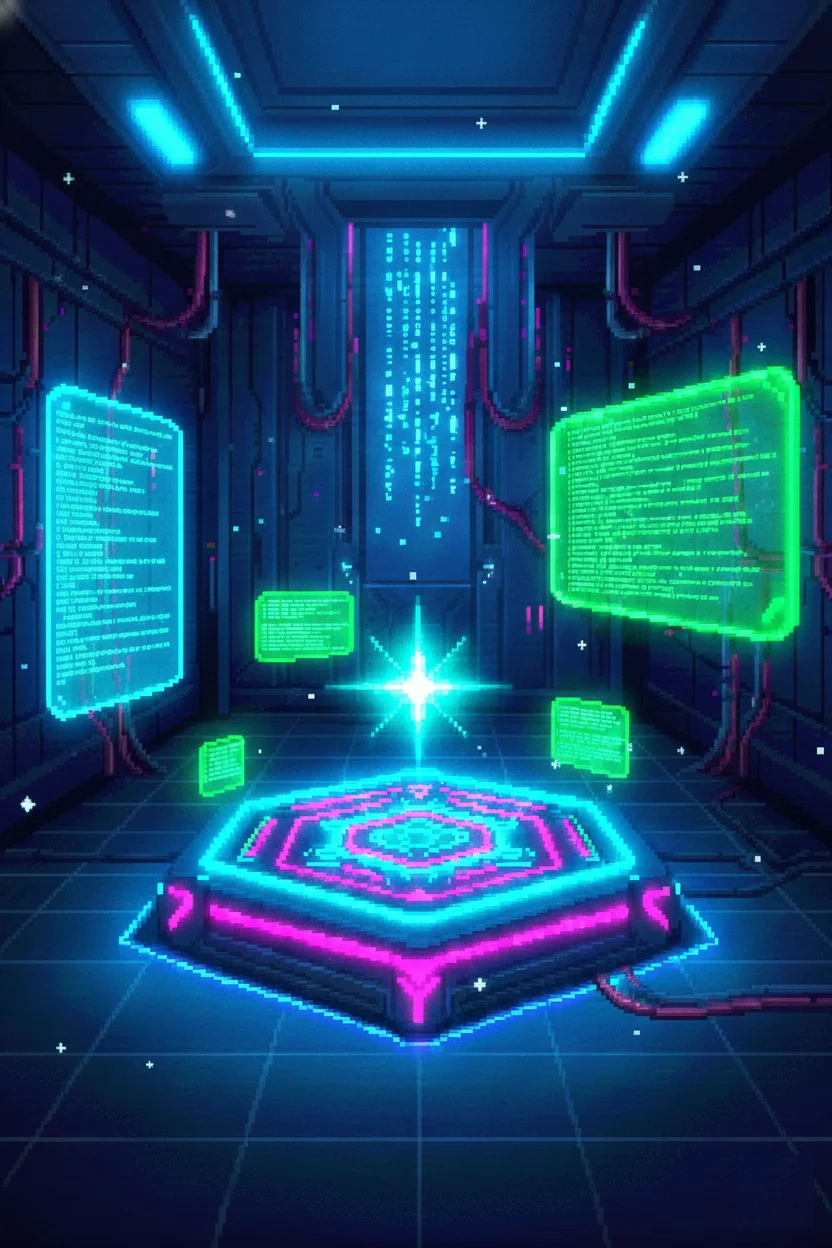
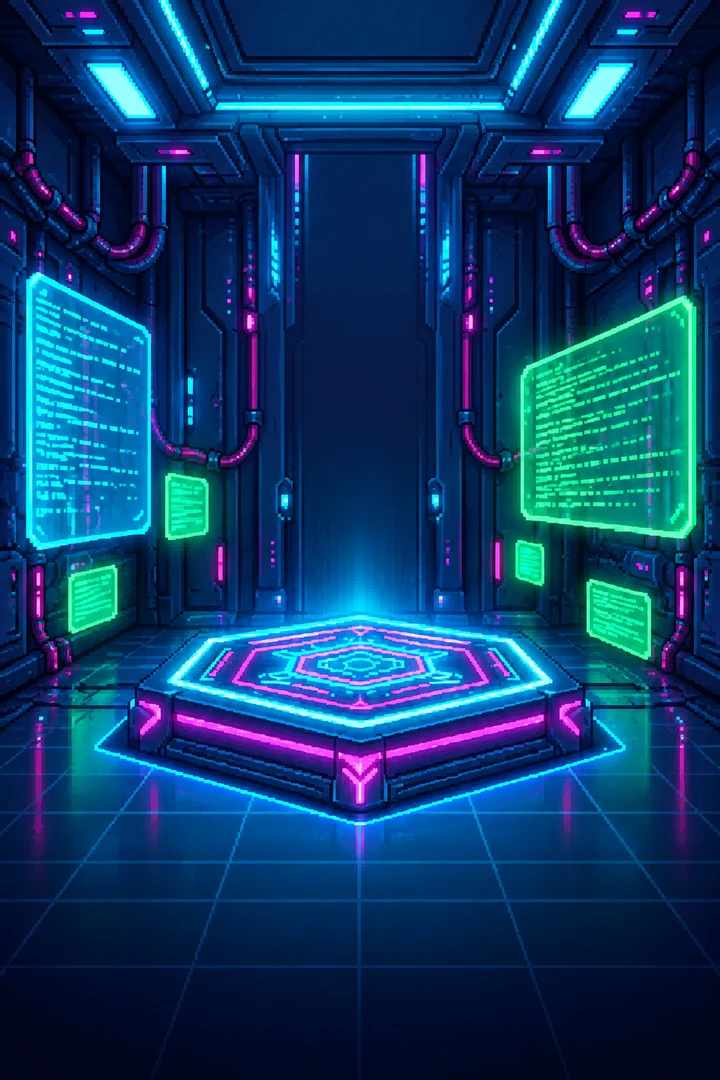
feat(background): 배경 9장 + 가챠 배경 리메이크, 모든 씬 cover·아래 맞춤 배치
- src/utils/background.ts: addBackground/coverBackground — 비율 유지 cover, 그림 아래를 화면 아래에
  (좁은 화면은 좌우가 잘린다). 메뉴·난이도·랭킹·대전·가챠·캐릭터 선택·게임 씬이 같은 헬퍼를 쓴다
- 배경별 땅 재질 팔레트 GROUND_FX (builder ground_fx.json — soil/snow/concrete/stone), 없으면 옛 흙색
- GameSceneAPI.backgroundKey — 능력이 이번 판 배경의 땅 팔레트를 고른다
- 새 배경: 1024x1536 원본 → 720x1080 webp (q88), 배경화면 썸네일 340x220. 옛 space_background 삭제

Claude-Session: https://claude.ai/code/session_01FbqhtZfvoqYCzNPgqVdggz

diff --git a/src/utils/background.ts b/src/utils/background.ts
@@ -1,0 +1,95 @@
+import Phaser from 'phaser';
+
+/**
+ * 전체 화면 배경 — 모든 씬이 이 헬퍼 하나로 깐다 (기본 배경·배경화면 공통).
+ *
+ * 비율 유지 cover, **그림 아래를 화면 아래에 붙인다.** 화면이 그림보다 좁으면 좌우가 잘리고,
+ * 넓으면 위가 잘린다. 배경 그림은 2:3 이고 플레이어 발밑(화면 아래에서 40px)에 땅이 오게
+ * 그려져 있어서, 아래를 맞춰야 어느 화면비에서도 플레이어가 땅 위에 선다.
+ */
+export function addBackground(
+  scene: Phaser.Scene,
+  key: string,
+  W: number = scene.scale.width,
+  H: number = scene.scale.height,
+): Phaser.GameObjects.Image {
+  return coverBackground(scene.add.image(0, 0, key), W, H);
+}
+
+/** 이미 있는 이미지에 배경 배치를 적용한다 (텍스처를 바꿔 끼우는 씬용) */
+export function coverBackground(
+  img: Phaser.GameObjects.Image,
+  W: number,
+  H: number,
+): Phaser.GameObjects.Image {
+  const s = Math.max(W / img.frame.realWidth, H / img.frame.realHeight);
+  return img.setOrigin(0.5, 1).setPosition(W / 2, H).setScale(s);
+}
+
+// ── 배경별 땅 재질 팔레트 ─────────────────────────────────────────────
+// 착지 잔해(테드 체스 말의 밑동 더미·균열)와 착지 연기를 배경 땅에 맞춰 굽는다.
+// 배경 텍스처 키(bgKey) 하나에 한 벌. 없는 키는 DEFAULT_GROUND_FX(지금 흙색)로 떨어진다.
+
+/** 땅 재질 — 잔해 모양이 갈린다 */
+export type GroundMaterial = 'soil' | 'snow' | 'concrete' | 'stone';
+
+export interface GroundFx {
+  /**
+   * soil = 흙더미 + 균열 · snow = 둥근 눈 더미 + 눈 튐(균열 없음)
+   * concrete = 각진 파편 + 금 간 균열 · stone = 돌 조각 + 균열
+   */
+  material: GroundMaterial;
+  /** 더미 4톤 (0xRRGGBB) — 외곽선 · 그늘 · 바탕 · 윗면 빛. 하드 엣지라 반투명 없이 이 넷만 쓴다 */
+  outline: number;
+  dark: number;
+  base: number;
+  light: number;
+  /** 균열 선 · 균열 위 가장자리 턱 (snow 는 눈 튐 그늘 · 빛으로 쓴다) */
+  crack: number;
+  crackEdge: number;
+  /** 착지 연기 색 (smoke 프리셋 tint) */
+  smoke: number;
+}
+
+/** 옛 흙색 — 팔레트가 없는 배경(gacha_background 등)은 이걸 쓴다 */
+export const DEFAULT_GROUND_FX: GroundFx = {
+  material: 'soil',
+  outline: 0x462a22,
+  dark: 0x6e4436,
+  base: 0x96604c,
+  light: 0xba7c60,
+  crack: 0x523228,
+  crackEdge: 0xc4886a,
+  smoke: 0xffffff,
+};
+
+/** builder ground_fx.json 한 항목의 더미 4톤 */
+interface Debris { light: number; mid: number; dark: number; outline: number }
+
+/** ground_fx.json 항목 → GroundFx. 균열은 더미 그늘·외곽선에서 파생한다 (선 = outline, 턱 = dark) */
+function fromDebris(material: GroundMaterial, d: Debris, smoke: number): GroundFx {
+  return {
+    material, outline: d.outline, dark: d.dark, base: d.mid, light: d.light,
+    crack: d.outline, crackEdge: d.dark, smoke,
+  };
+}
+
+/**
+ * bgKey → 땅 팔레트. 값은 builder 의 ~/ddong-fx-work/backgrounds/ground_fx.json (v3 배경 9장) 을 옮긴 것.
+ * gacha_background 는 바닥이 없어 넣지 않는다 (DEFAULT 로 떨어진다)
+ */
+export const GROUND_FX: Readonly<Record<string, GroundFx>> = {
+  background:       fromDebris('soil',     { light: 0xeb9363, mid: 0xbd724a, dark: 0x885235, outline: 0x553321 }, 0xcf8f6c),
+  background2:      fromDebris('concrete', { light: 0xefedec, mid: 0xc0bfbe, dark: 0x8a8a89, outline: 0x565656 }, 0xd2d1d0),
+  background3:      fromDebris('stone',    { light: 0xc49997, mid: 0xb79296, dark: 0x77667d, outline: 0x30364d }, 0xbf9fa0),
+  xmas_background:  fromDebris('snow',     { light: 0xfffefe, mid: 0xfefefe, dark: 0xcfebfc, outline: 0x90a4b0 }, 0xf4f3f3),
+  wp_hanok_bg:      fromDebris('soil',     { light: 0xfdc171, mid: 0xf4af67, dark: 0xda7636, outline: 0x292829 }, 0xeeba7e),
+  wp_lake_bg:       fromDebris('soil',     { light: 0xfa9c61, mid: 0xca7a48, dark: 0x915834, outline: 0x623928 }, 0xdb956a),
+  wp_maehwa_bg:     fromDebris('soil',     { light: 0xdd9168, mid: 0xb1714e, dark: 0x7f5138, outline: 0x5d3729 }, 0xc58e70),
+  wp_gold_mine_bg:  fromDebris('soil',     { light: 0xed9b57, mid: 0xb26f44, dark: 0x4c3b33, outline: 0x1a1413 }, 0xcb9065),
+  wp_fantasy_bg:    fromDebris('stone',    { light: 0xdca896, mid: 0xb094a0, dark: 0x837997, outline: 0x3f425e }, 0xc4a5a4),
+};
+
+export function getGroundFx(bgKey: string): GroundFx {
+  return GROUND_FX[bgKey] ?? DEFAULT_GROUND_FX;
+}

diff --git a/src/scenes/CharacterSelectScene.ts b/src/scenes/CharacterSelectScene.ts
@@ -25,6 +25,7 @@ import {
 import { syncOwnedCharacters, syncOwnedWallpapers } from '../utils/gacha';
 import { destroyVideo } from '../utils/video';
 import BaseScene from './BaseScene';
+import { addBackground, coverBackground } from '../utils/background';
 
 // ── 캐릭터 그리드 설정 ──────────────────────────────────────────────────────
 const COLS = 3;
@@ -423,17 +424,19 @@ export default class CharacterSelectScene extends BaseScene {
     const H = this.scale.height;
     if (this.activeTab === 'character') {
       const def = CHARACTERS.find(c => c.id === this.selectedId) ?? CHARACTERS[0];
-      this.bgImage.setTexture(def.illustKey).setDisplaySize(W, H).setAlpha(1).clearTint();
+      this.bgImage.setTexture(def.illustKey).setOrigin(0.5).setPosition(W / 2, H / 2)
+        .setDisplaySize(W, H).setAlpha(1).clearTint();
     } else {
       const wpDef = this.selectedWpId
         ? WALLPAPERS.find(w => w.id === this.selectedWpId)
         : null;
       if (wpDef && this.textures.exists(wpDef.bgKey)) {
-        this.bgImage.setTexture(wpDef.bgKey).setDisplaySize(W, H).setAlpha(1).clearTint();
+        coverBackground(this.bgImage.setTexture(wpDef.bgKey), W, H).setAlpha(1).clearTint();
       } else {
         // 선택 배경 없음 → 캐릭터 일러스트를 어둡게 처리
         const def = CHARACTERS.find(c => c.id === this.selectedId) ?? CHARACTERS[0];
-        this.bgImage.setTexture(def.illustKey).setDisplaySize(W, H).setAlpha(0.2);
+        this.bgImage.setTexture(def.illustKey).setOrigin(0.5).setPosition(W / 2, H / 2)
+          .setDisplaySize(W, H).setAlpha(0.2);
       }
     }
   }
@@ -534,7 +537,7 @@ export default class CharacterSelectScene extends BaseScene {
 
     // 배경화면 전체화면 미리보기
     if (this.textures.exists(def.bgKey)) {
-      const bg = this.add.image(cx, H / 2, def.bgKey).setDisplaySize(W, H);
+      const bg = addBackground(this, def.bgKey, W, H);
       panel.add(bg);
     } else {
       const fallback = this.add.rectangle(cx, H / 2, W, H, 0x050515);
@@ -752,7 +755,8 @@ export default class CharacterSelectScene extends BaseScene {
     const def = CHARACTERS.find(c => c.id === id) ?? CHARACTERS[0];
     this.headerNameText.setText(`현재: ${def.name}`);
     this.headerNameText.setColor(def.gradeColor);
-    this.bgImage.setTexture(def.illustKey).setDisplaySize(this.scale.width, this.scale.height);
+    const { width: W, height: H } = this.scale;
+    this.bgImage.setTexture(def.illustKey).setOrigin(0.5).setPosition(W / 2, H / 2).setDisplaySize(W, H);
   }
 
   private showCharacterDetail(id: string): void {

diff --git a/src/scenes/GameScene.ts b/src/scenes/GameScene.ts
@@ -29,6 +29,7 @@ import { realNow } from '../utils/realTime';
 import { preloadFxAssets, loadFxPickSheet, preloadFxSheet } from '../utils/vfx';
 import { preloadCharSheets, ensureCharAnims } from '../utils/charAnim';
 import BaseScene from './BaseScene';
+import { addBackground } from '../utils/background';
 
 export default class GameScene extends BaseScene {
   protected inputGuardMs = 0; // 게임플레이 씬은 즉시 입력 허용
@@ -123,6 +124,8 @@ export default class GameScene extends BaseScene {
   // ── 캐릭터 능력 시스템 ────────────────────────────────────────────────
   protected ability!: CharacterAbility;
   protected abilityAPI!: GameSceneAPI;
+  /** 이번 판 배경 텍스처 키 — create() 에서 정한다. 능력이 땅 팔레트(getGroundFx)를 고를 때 쓴다 */
+  protected backgroundKey = 'background';
   // [디버그] 수동 충돌 영역 시각화
   private manualHitboxDebug?: Phaser.GameObjects.Graphics;
 
@@ -319,8 +322,8 @@ export default class GameScene extends BaseScene {
     const H = this.scale.height;
     const cx = W / 2;
 
-    const background = this.add.image(cx, H / 2, backgroundKey);
-    background.setDisplaySize(W, H);
+    this.backgroundKey = backgroundKey;
+    addBackground(this, backgroundKey, W, H);
 
     // BGM 키 결정 (preload에서 이미 로드됨)
     let bgMusicKey = 'bgMusic';
@@ -660,6 +663,7 @@ export default class GameScene extends BaseScene {
       get topazPoops()      { return self.topazPoops; },
       get rainbowPoops()    { return self.rainbowPoops; },
       get scene()           { return self as unknown as Phaser.Scene; },
+      get backgroundKey()   { return self.backgroundKey; },
       updateScore:    (n) => self.updateScore(n),
       addAbilityBonus: (n) => { self.abilityBonusTotal += n; self.updateScore(n); },
       spawnGoldPoop:    () => self.spawnGoldPoop(),

diff --git a/src/scenes/GachaScene.ts b/src/scenes/GachaScene.ts
@@ -5,6 +5,7 @@ import { WALLPAPERS, getWallpaperDef, addOwnedWallpaper, WP_ACCENT_INT, WP_ACCEN
 import { getSkorBalance, getCachedSkorBalance, cacheSkorBalance } from '../utils/skor';
 import { destroyVideo } from '../utils/video';
 import BaseScene from './BaseScene';
+import { addBackground } from '../utils/background';
 
 // 개인 영상이 있는 캐릭터 — **캐릭터 정의에서 그대로 읽는다.** 영상 유무는 이미
 // `videoKey`/`videoPath` 가 말하고 있어서, 목록을 따로 두면 캐릭터를 추가할 때
@@ -483,7 +484,7 @@ export default class GachaScene extends BaseScene {
 
     // ── 배경: 실제 배경화면 이미지 (있으면) 또는 단색 ──
     if (def && this.textures.exists(def.bgKey)) {
-      this.add.image(_cx, _H / 2, def.bgKey).setDisplaySize(_W, _H);
+      addBackground(this, def.bgKey, _W, _H);
     } else {
       this.add.rectangle(_cx, _H / 2, _W, _H, 0x050515);
     }
@@ -698,8 +699,7 @@ export default class GachaScene extends BaseScene {
 
     // ── 배경: 사이버 우주 이미지 + 등급 컬러 헤이즈 ──
     if (this.textures.exists('gacha_background')) {
-      const bg = this.add.image(cx, H / 2, 'gacha_background');
-      bg.setDisplaySize(W, H);
+      addBackground(this, 'gacha_background', W, H);
     } else {
       this.add.rectangle(cx, H / 2, W, H, 0x050510);
     }
@@ -812,7 +812,7 @@ export default class GachaScene extends BaseScene {
     const _cx = _W / 2;
     const _yOff = (_H - 600) / 2;
     if (this.textures.exists('gacha_background')) {
-      this.add.image(_cx, _H / 2, 'gacha_background').setDisplaySize(_W, _H);
+      addBackground(this, 'gacha_background', _W, _H);
     } else {
       this.add.rectangle(_cx, _H / 2, _W, _H, 0x060612);
     }

diff --git a/src/scenes/ModeSelectScene.ts b/src/scenes/ModeSelectScene.ts
@@ -3,6 +3,7 @@ import { GameMode, GAME_MODES, type GameModeConfig } from '../types/GameMode';
 import { getSkorBalance, getCachedSkorBalance, cacheSkorBalance } from '../utils/skor';
 import { setBgmMuted } from '../utils/settings';
 import BaseScene from './BaseScene';
+import { addBackground } from '../utils/background';
 
 export default class ModeSelectScene extends BaseScene {
   private skorText!: Phaser.GameObjects.Text;
@@ -29,8 +30,7 @@ export default class ModeSelectScene extends BaseScene {
     const cx = W / 2;
     const yOff = (H - 600) / 2;
 
-    const background = this.add.image(cx, H / 2, 'background2');
-    background.setDisplaySize(W, H);
+    addBackground(this, 'background2', W, H);
 
     const title = this.add.image(cx, 90 + yOff, 'title');
     title.setScale(0.4);

diff --git a/src/scenes/BattleLeaderboardScene.ts b/src/scenes/BattleLeaderboardScene.ts
@@ -3,6 +3,7 @@ import { supabase } from '../utils/supabase';
 import { getBattleLeaderboard, type BattleRecordEntry } from '../utils/battleLeaderboard';
 import { getBattleTier, preloadTierImages } from '../utils/battleTier';
 import BaseScene from './BaseScene';
+import { addBackground } from '../utils/background';
 
 export default class BattleLeaderboardScene extends BaseScene {
   private leaderboardEntries: BattleRecordEntry[] = [];
@@ -39,8 +40,7 @@ export default class BattleLeaderboardScene extends BaseScene {
     const yOff = (H - 600) / 2;
 
     // 배경
-    const bg = this.add.image(cx, H / 2, 'background2');
-    bg.setDisplaySize(W, H);
+    addBackground(this, 'background2', W, H);
     this.add.rectangle(cx, H / 2, W, H, 0x000000, 0.75);
 
     // 타이틀

diff --git a/src/scenes/DifficultySelectScene.ts b/src/scenes/DifficultySelectScene.ts
@@ -2,6 +2,7 @@ import { Difficulty, GameMode, DIFFICULTIES, type DifficultyConfig } from '../ty
 import { isChristmasSeason } from '../utils/seasonChecker';
 import { getSafeSelectedWallpaper, getWallpaperDef } from '../utils/wallpaper';
 import BaseScene from './BaseScene';
+import { addBackground } from '../utils/background';
 
 interface ButtonCardConfig {
   color: number;
@@ -89,8 +90,7 @@ export default class DifficultySelectScene extends BaseScene {
     const yOff = (H - 600) / 2;
 
     // 배경 이미지 추가
-    const background = this.add.image(cx, H / 2, 'background');
-    background.setDisplaySize(W, H);
+    addBackground(this, 'background', W, H);
 
     // 반투명 오버레이로 가독성 향상
     this.add.rectangle(cx, H / 2, W, H, 0x000000, 0.4);

diff --git a/src/scenes/BattleMatchScene.ts b/src/scenes/BattleMatchScene.ts
@@ -19,6 +19,7 @@ import {
 import { getBattleTier, preloadTierImages } from '../utils/battleTier';
 import { getMyRating, getCachedMyRating, setCachedMyRating, clearCachedMyRating } from '../utils/battleLeaderboard';
 import BaseScene from './BaseScene';
+import { addBackground } from '../utils/background';
 
 /**
  * 대전 매칭 씬 — 상태별 UI 전환
@@ -108,8 +109,7 @@ export default class BattleMatchScene extends BaseScene {
     const yOff = (H - 600) / 2;
 
     // 배경 (모든 상태에서 유지)
-    const bg = this.add.image(cx, H / 2, 'background2');
-    bg.setDisplaySize(W, H);
+    addBackground(this, 'background2', W, H);
     this.add.rectangle(cx, H / 2, W, H, 0x000000, 0.6);
 
     // 타이틀 (모든 상태에서 유지)

diff --git a/src/scenes/LeaderboardScene.ts b/src/scenes/LeaderboardScene.ts
@@ -11,6 +11,7 @@ import {
 } from '../utils/leaderboard';
 import { CHARACTERS, getVisibleCharacters, getGradeColorInt } from '../utils/character';
 import BaseScene from './BaseScene';
+import { addBackground } from '../utils/background';
 
 export default class LeaderboardScene extends BaseScene {
   private selectedDifficulty: Difficulty = DifficultyEnum.NORMAL;
@@ -79,8 +80,7 @@ export default class LeaderboardScene extends BaseScene {
     const yOff = (H - 600) / 2;
 
     // 배경 이미지 추가
-    const background = this.add.image(cx, H / 2, 'background2');
-    background.setDisplaySize(W, H);
+    addBackground(this, 'background2', W, H);
 
     // 타이틀
     this.add.text(cx, 40 + yOff, '🏆 랭킹보드 🏆', {

diff --git a/src/scenes/BattleResultScene.ts b/src/scenes/BattleResultScene.ts
@@ -3,6 +3,7 @@ import { submitBattleResult, setCachedMyRating, type SubmitBattleResultResponse 
 import { getBattleTier, getTierIndex, preloadTierImages } from '../utils/battleTier';
 import { BattleChannel } from '../utils/battleChannel';
 import BaseScene from './BaseScene';
+import { addBackground } from '../utils/background';
 
 interface BattleResultData {
   result: BattleResult;
@@ -83,8 +84,7 @@ export default class BattleResultScene extends BaseScene {
     const yOff = (H - 600) / 2;
 
     // 배경
-    const bg = this.add.image(cx, H / 2, 'background2');
-    bg.setDisplaySize(W, H);
+    addBackground(this, 'background2', W, H);
     this.add.rectangle(cx, H / 2, W, H, 0x000000, 0.75);
 
     // 결과 텍스트

diff --git a/src/scenes/ReleaseNotesScene.ts b/src/scenes/ReleaseNotesScene.ts
@@ -1,6 +1,7 @@
 import Phaser from 'phaser';
 import { RELEASE_NOTES } from '../data/releaseNotes';
 import BaseScene from './BaseScene';
+import { addBackground } from '../utils/background';
 
 export default class ReleaseNotesScene extends BaseScene {
   private scrollContainer!: Phaser.GameObjects.Container;
@@ -35,8 +36,7 @@ export default class ReleaseNotesScene extends BaseScene {
     this.scrollY = 0;
 
     // 배경
-    const background = this.add.image(cx, H / 2, 'background2');
-    background.setDisplaySize(W, H);
+    addBackground(this, 'background2', W, H);
 
     // 반투명 오버레이 (더 어둡게)
     this.add.rectangle(cx, H / 2, W, H, 0x000000, 0.7);

diff --git a/src/abilities/types.ts b/src/abilities/types.ts
@@ -15,6 +15,8 @@ export interface GameSceneAPI {
 
   /** Phaser.Scene — time / tweens / add / cameras / physics 접근용 */
   readonly scene: Phaser.Scene;
+  /** 이번 판 배경 텍스처 키 — 땅 재질 팔레트(utils/background getGroundFx) 조회용 */
+  readonly backgroundKey: string;
 
   updateScore(amount: number): void;
   /** 어빌리티 자체 보너스 점수 추가 — updateScore와 동일하지만 abilityBonusTotal에 누적됨 */
